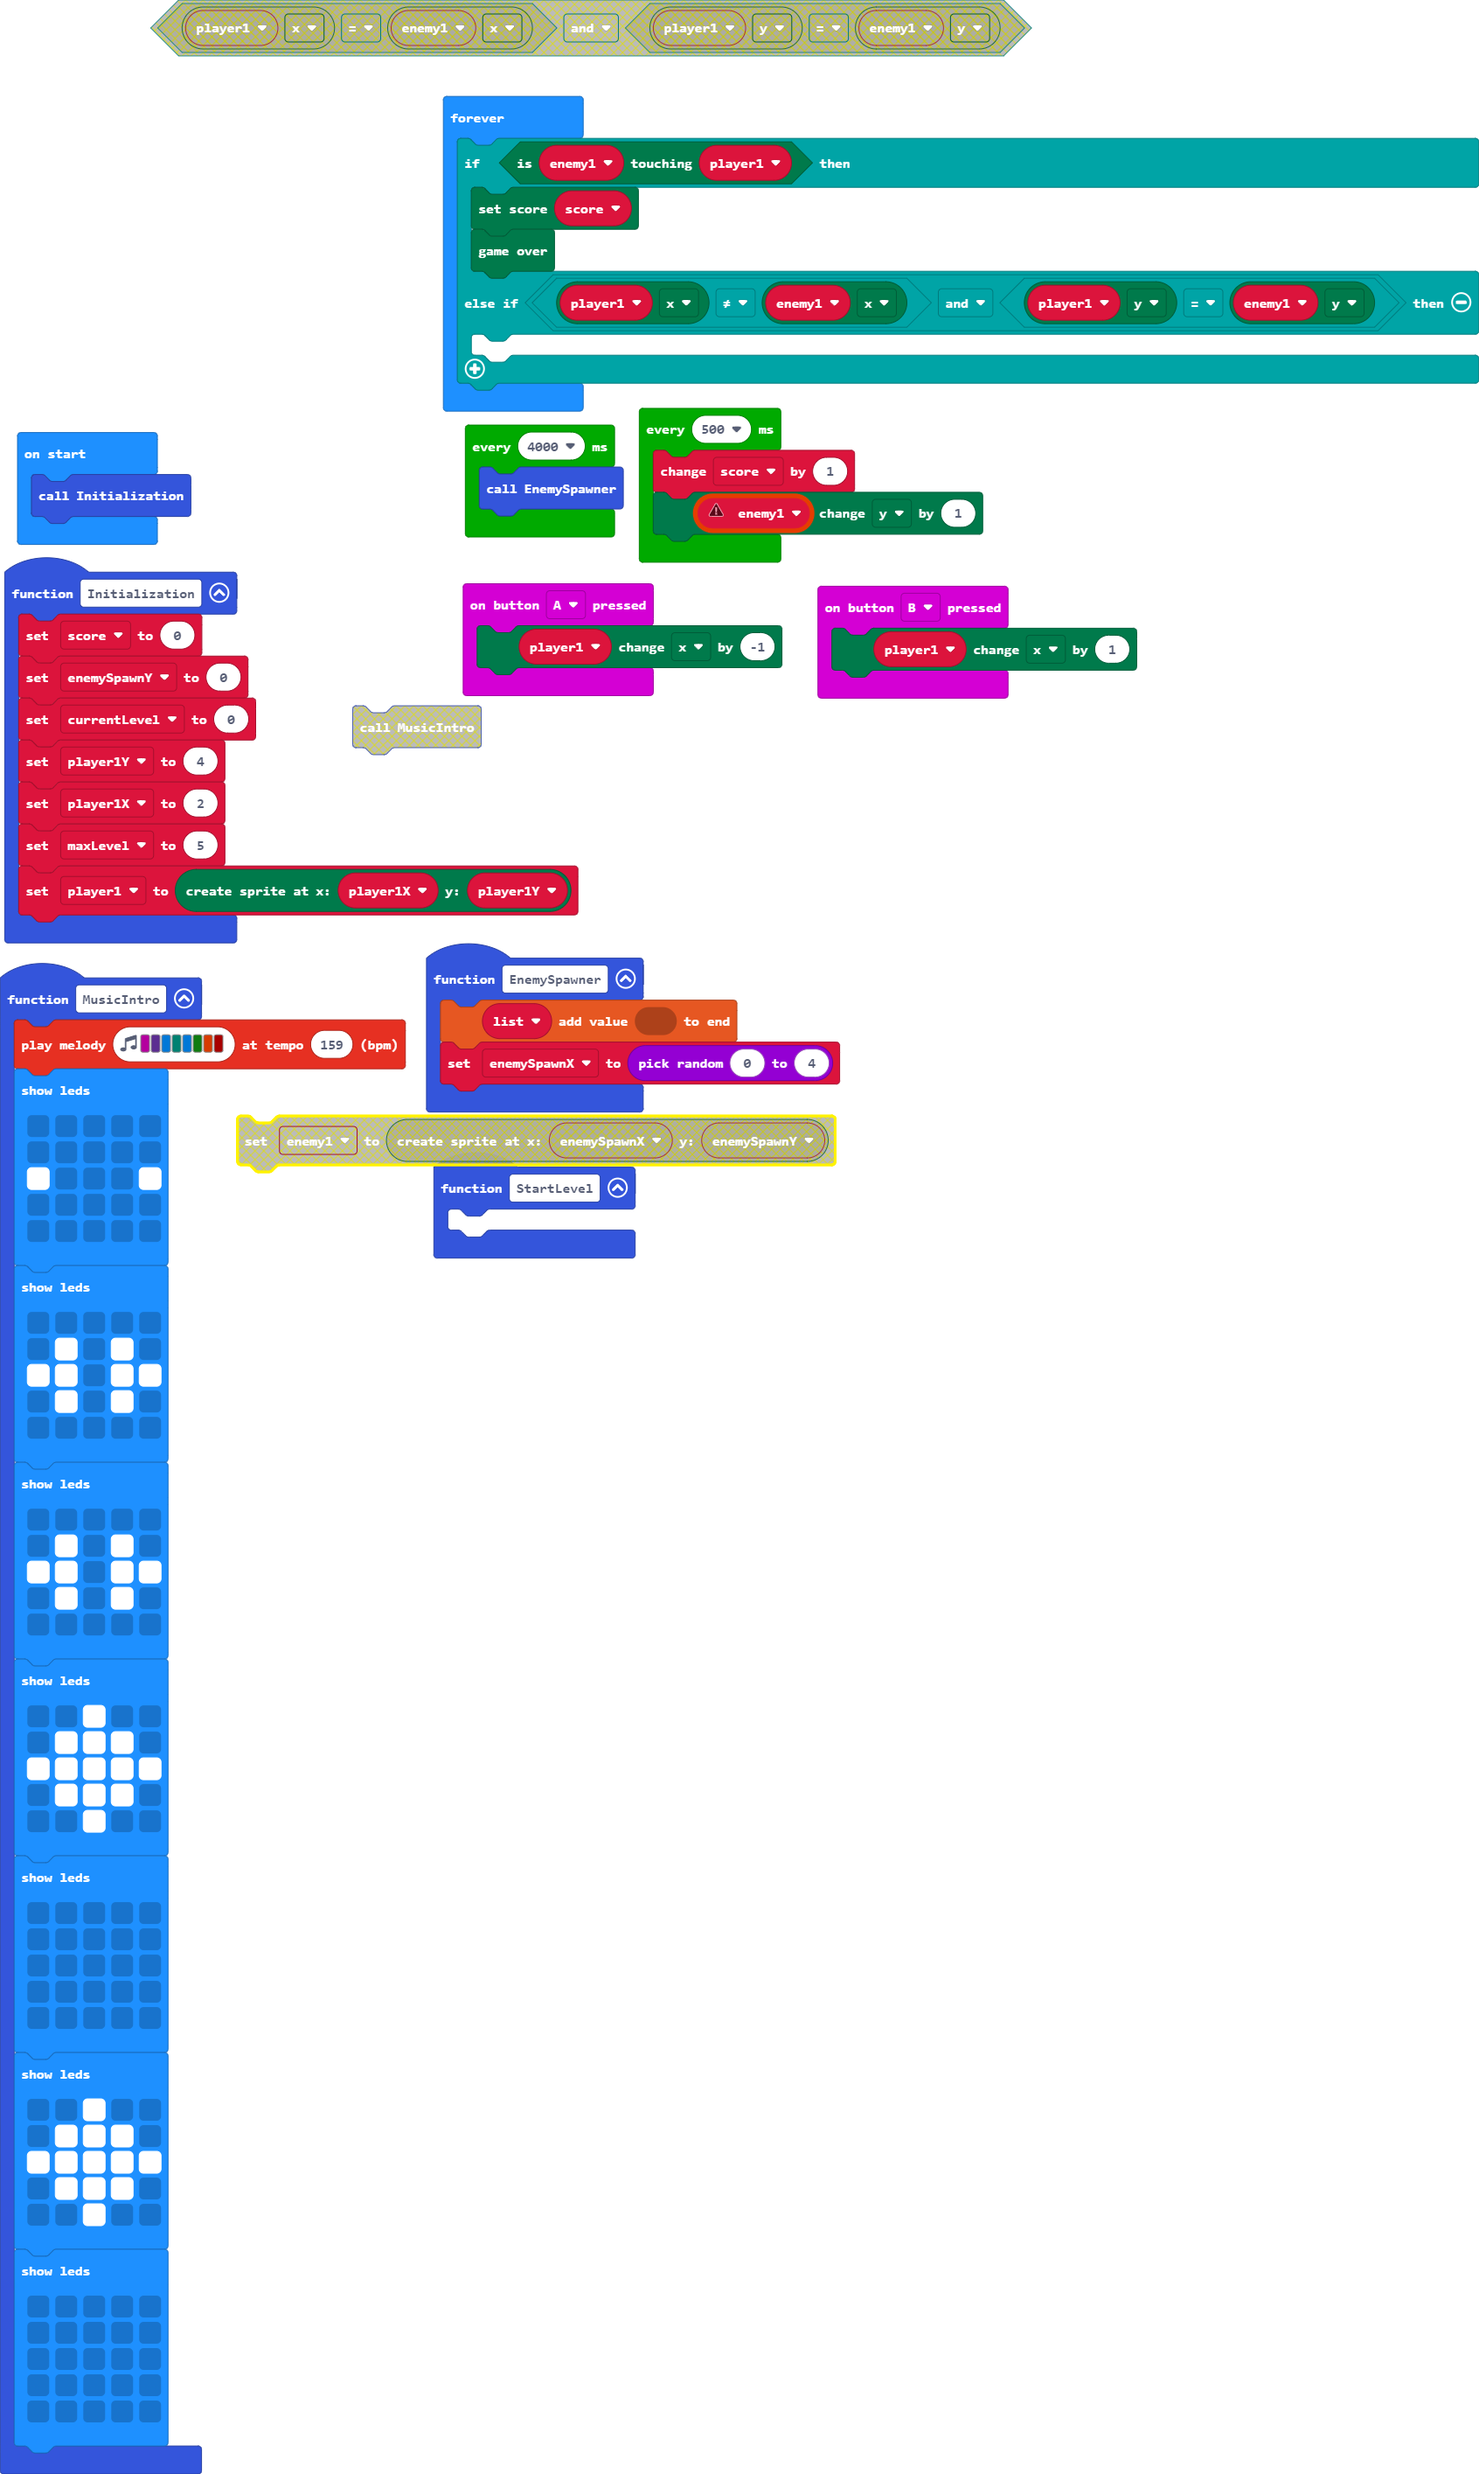
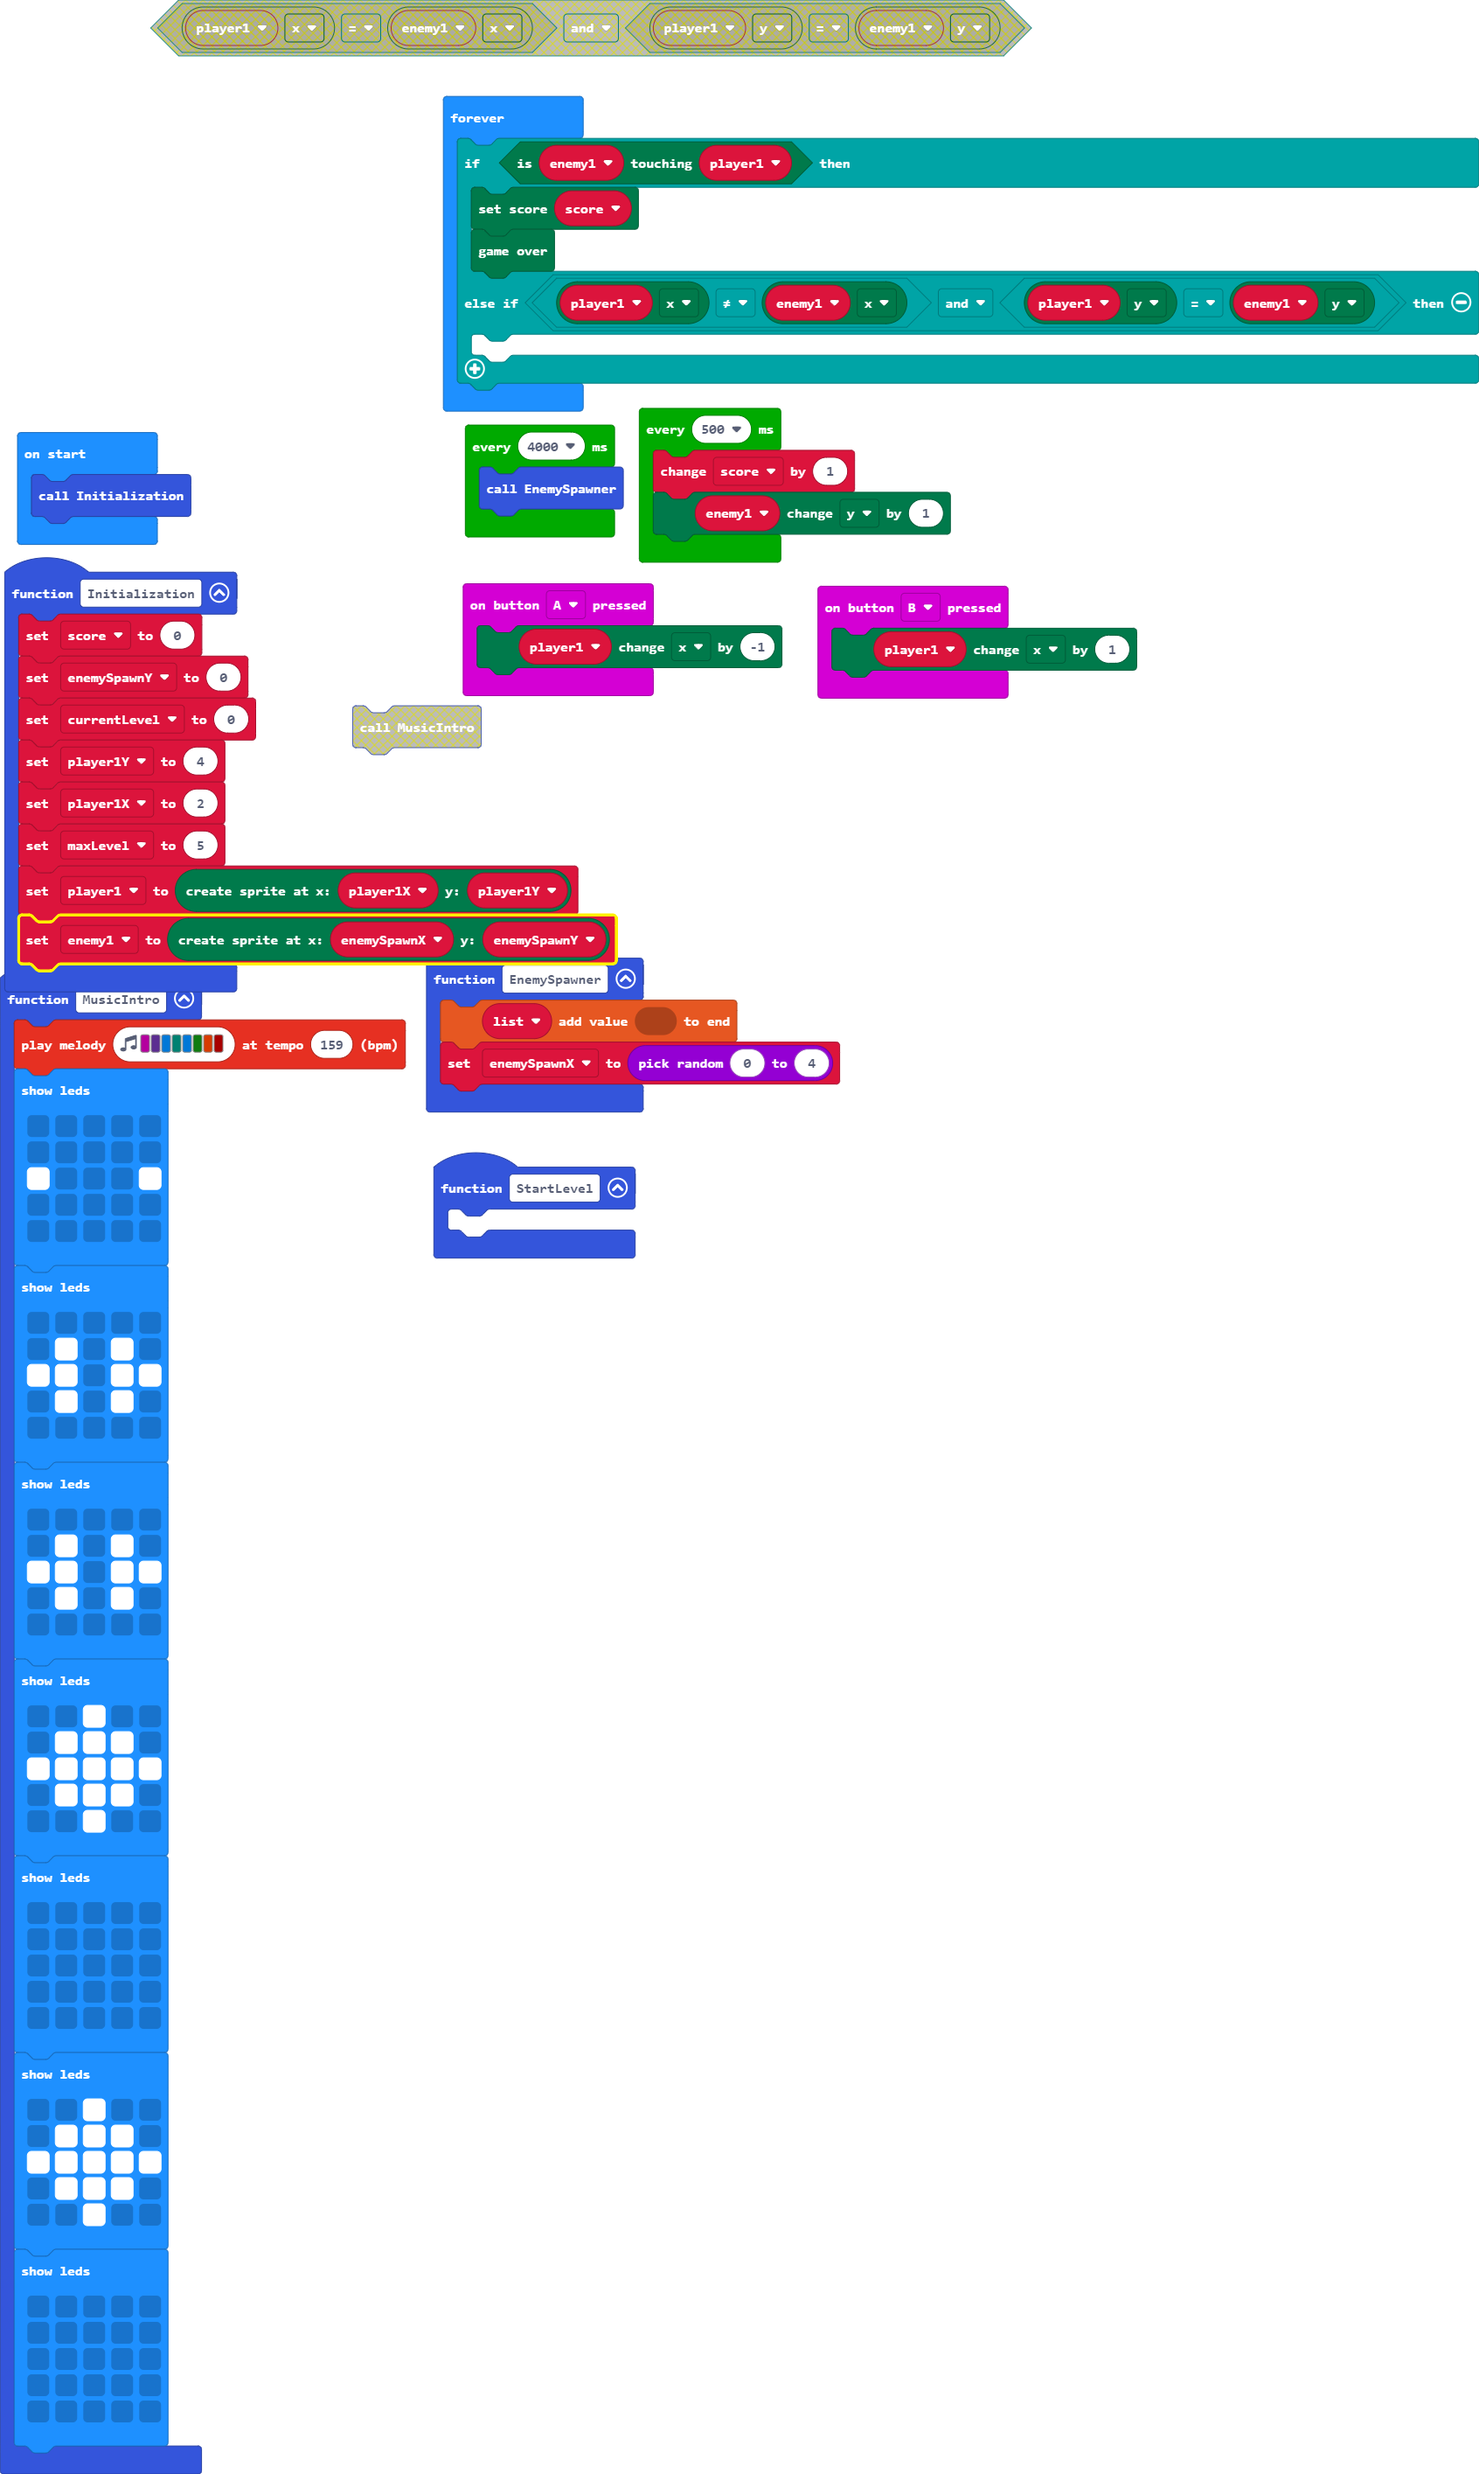
Forgot to set a value

diff --git a/main.ts b/main.ts
@@ -17,6 +17,7 @@ function Initialization () {
     player1X = 2
     maxLevel = 5
     player1 = game.createSprite(player1X, player1Y)
+    enemy1 = game.createSprite(enemySpawnX, enemySpawnY)
 }
 input.onButtonPressed(Button.B, function () {
     player1.change(LedSpriteProperty.X, 1)
